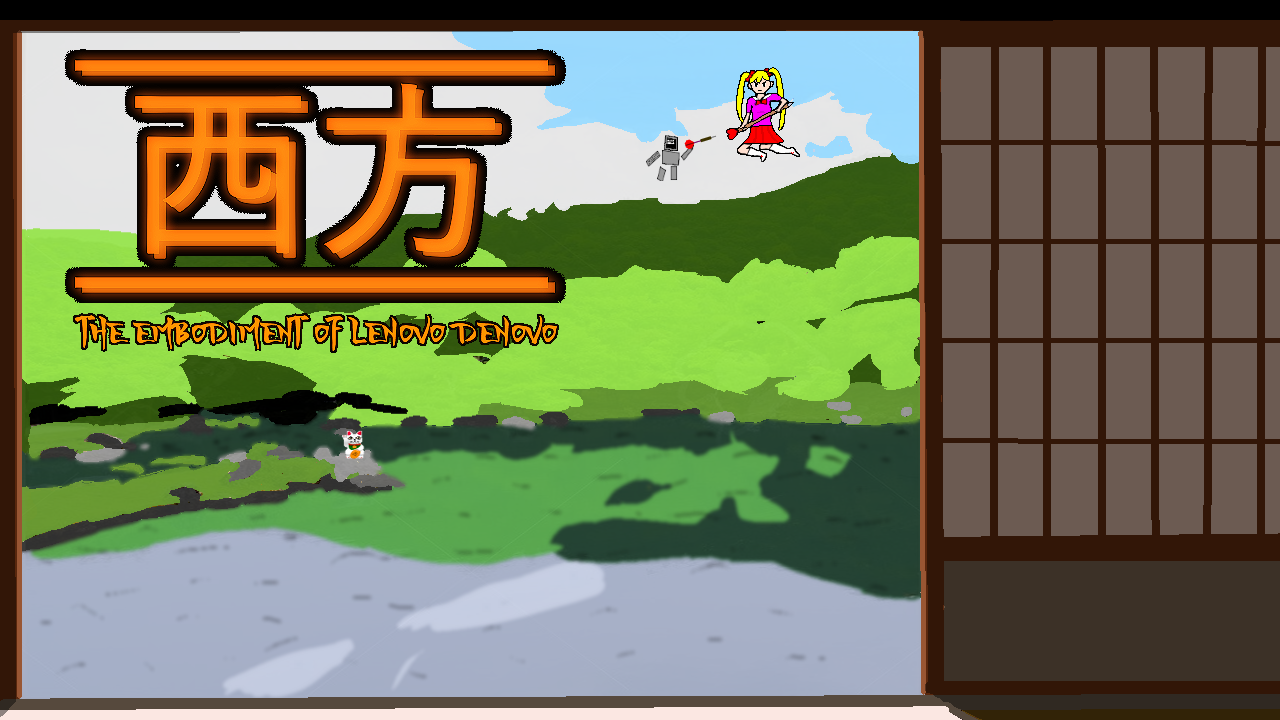
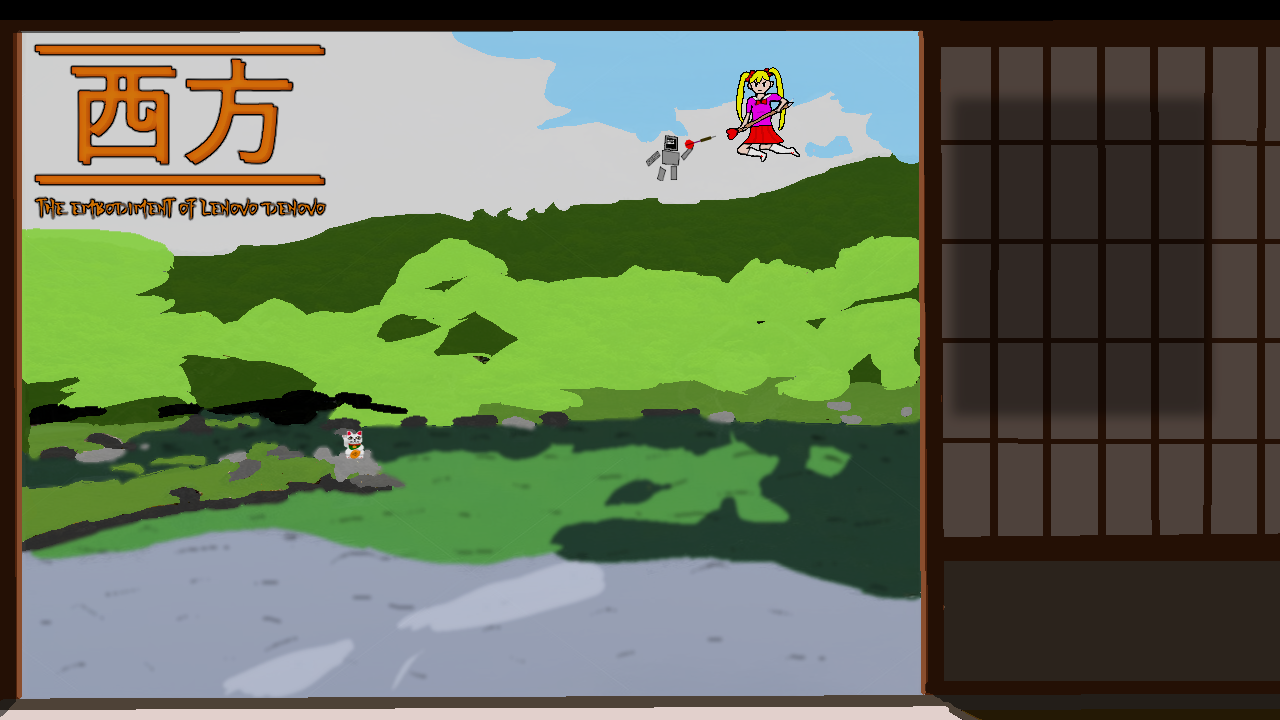
Fixed mainmenu readability

diff --git a/Seihou/Seihou/States/MenuState.cs b/Seihou/Seihou/States/MenuState.cs
@@ -20,14 +20,16 @@ namespace Seihou
         private readonly Color creditsColor = new(0, 0, 0);
         private readonly Color creditsHoverColor = new(70, 70, 70);
 
+        private const string font = "DefaultFontBig";
+
         public MenuState(StateManager sm, ContentManager cm, SpriteBatch sb, GraphicsDeviceManager gdm) : base(sm, cm, sb, gdm)
         {
             host.DefaultTabIndex = 0;
 
-            host.AddControl(new Button(sb, OnClickedStart) { Text = "Start", TextColor = textColor });
-            host.AddControl(new Button(sb, OnClickedHighscores) { Text = "Highscores", TextColor = textColor });
-            host.AddControl(new Button(sb, OnClickedSettings) { Text = "Settings", TextColor = textColor });
-            host.AddControl(new Button(sb, OnClickedExit) { Text = "Exit", TextColor = textColor });
+            host.AddControl(new Button(sb, OnClickedStart) { Text = "Start", TextColor = textColor, Font = font });
+            host.AddControl(new Button(sb, OnClickedHighscores) { Text = "Highscores", TextColor = textColor, Font = font });
+            host.AddControl(new Button(sb, OnClickedSettings) { Text = "Settings", TextColor = textColor, Font = font });
+            host.AddControl(new Button(sb, OnClickedExit) { Text = "Exit", TextColor = textColor, Font = font });
 
             int tabIndex = 0;
             const int spacing = 80;
